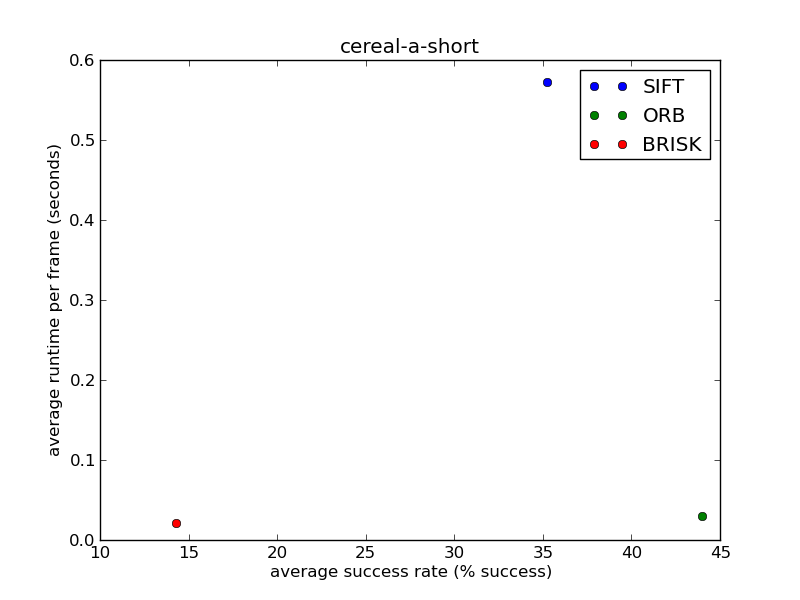
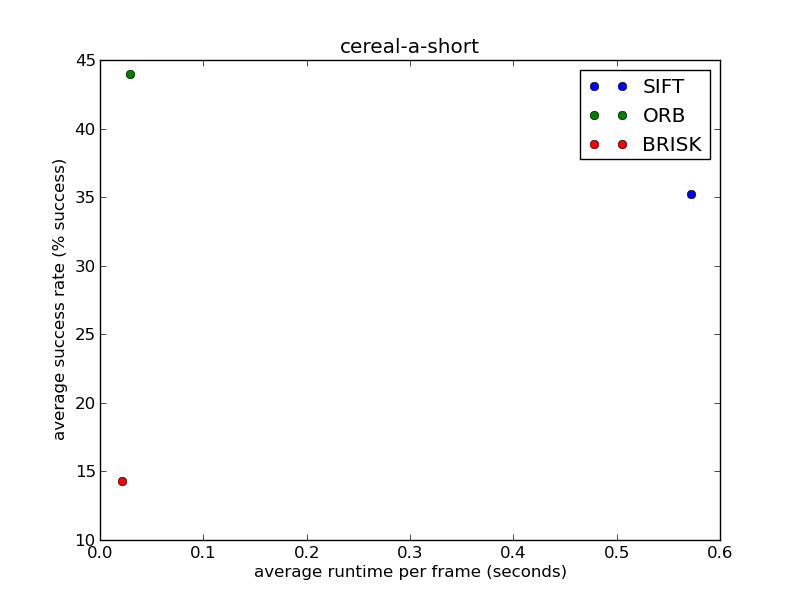
Rearranged axes on p3 speed vs accuracy plots

diff --git a/plotdata.py b/plotdata.py
@@ -36,10 +36,12 @@ if __name__ == '__main__':
             data = pickle.load(temp)
             for key in data:
                 plt.hold(True) 
-                x = data[key][2] # avg success rate for the current method  
-                y = data[key][4]['start_to_end_time'] # avg runtime per frame for the current method
-                plot(data = [x,y], plot_xlabel = 'average success rate (% success)', 
-                     plot_ylabel = 'average runtime per frame (seconds)', plot_title = thing,
+                x = data[key][4]['start_to_end_time'] # avg runtime per frame for the current method
+                y = data[key][2] # avg success rate for the current method  
+                plot(data = [x,y],  
+                     plot_xlabel = 'average runtime per frame (seconds)',
+                     plot_ylabel = 'average success rate (% success)', 
+                     plot_title = thing,
                      label = str(key))
             plt.legend()
             plt.savefig("./OT-res/plots/p3/%s.png" % thing)
